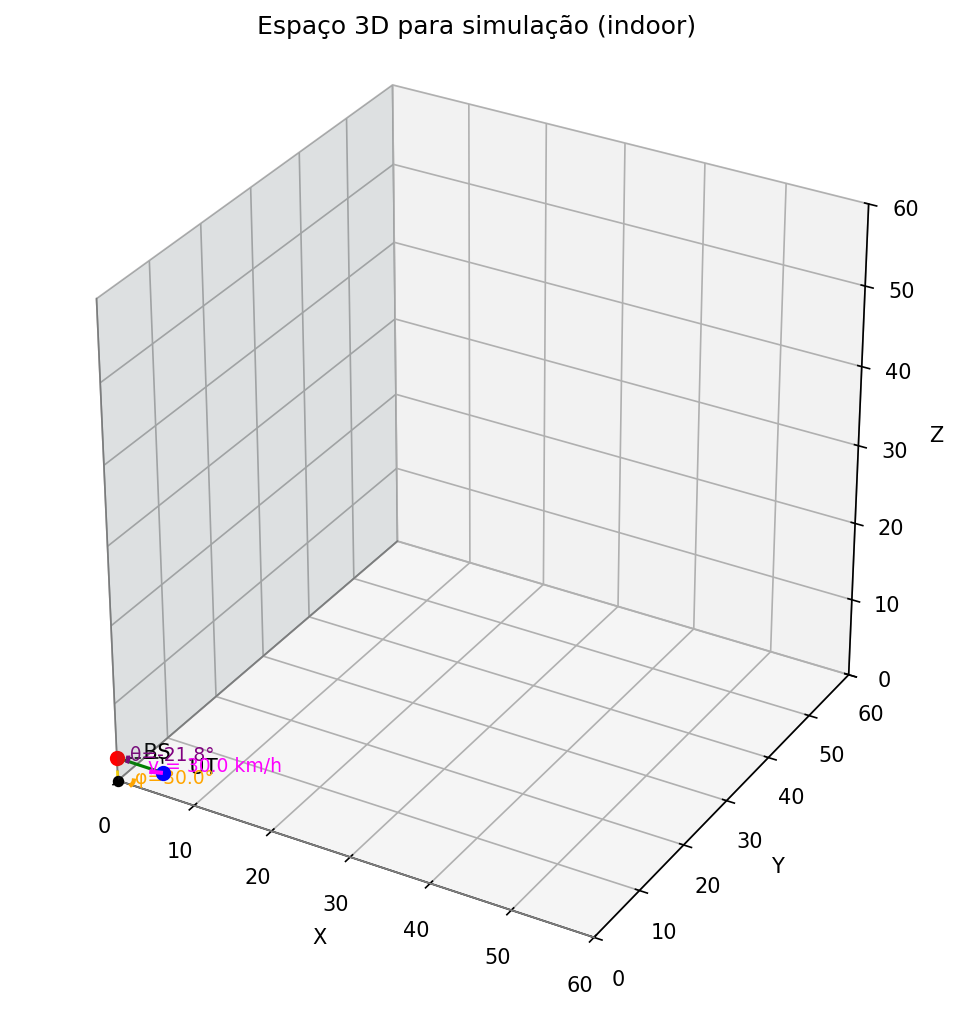
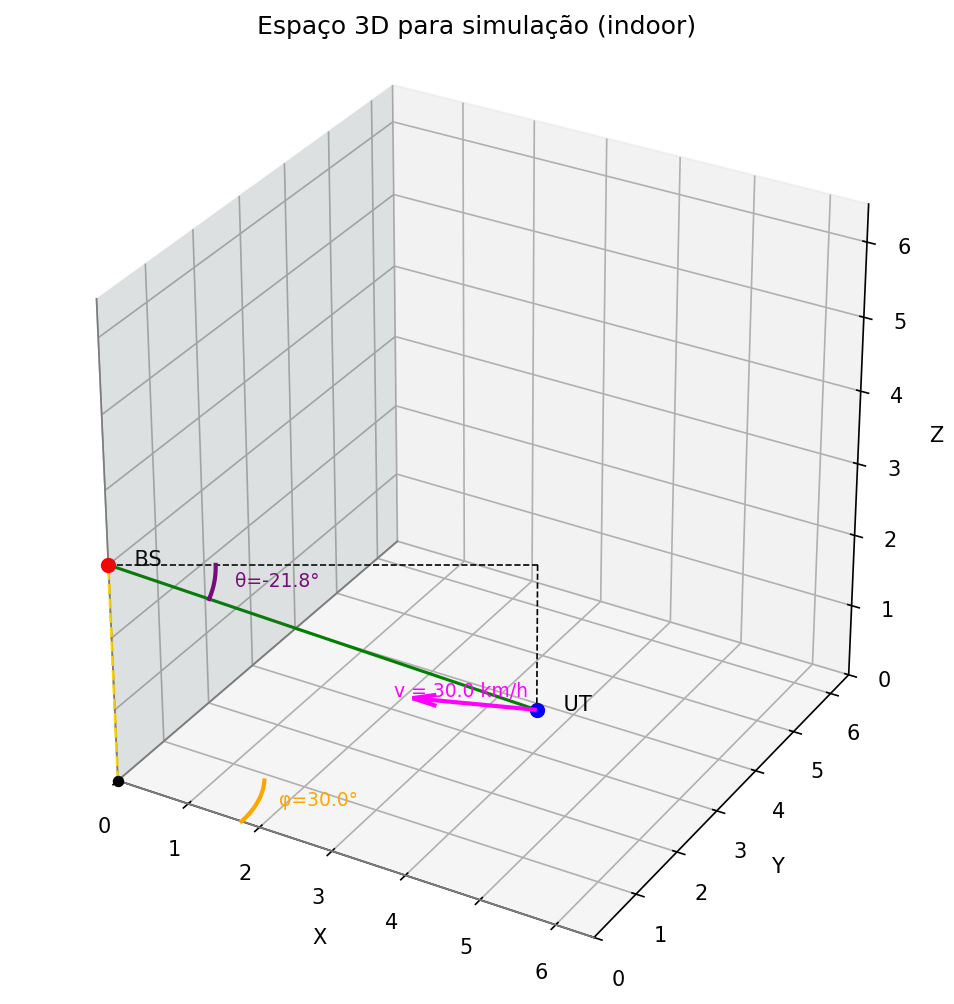
figura 1 arrumada pra caso indoor

diff --git a/Projeto1/run.py b/Projeto1/run.py
@@ -13,7 +13,7 @@ from main import CenarioSimulacao
 
 AMBIENTE = "indoor"
 PHI0_GRAUS = 30
-LIMITE_ESPACO = 60
+MARGEM_ESPACO = 1.3
 N_COMPONENTES = 100
 
 VELOCIDADE_KMH = 30
@@ -200,7 +200,10 @@ def figura_tempo_coerencia(cenario_base):
 
 
 
-cenario = CenarioSimulacao(AMBIENTE, phi0_graus=PHI0_GRAUS, limite_espaco=LIMITE_ESPACO)
+parametros_ambiente = CenarioSimulacao.PARAMETROS_DO_AMBIENTE[AMBIENTE]
+limite_espaco = max(parametros_ambiente["h_bs"], parametros_ambiente["d_2D"]) * MARGEM_ESPACO
+
+cenario = CenarioSimulacao(AMBIENTE, phi0_graus=PHI0_GRAUS, limite_espaco=limite_espaco)
 rodar_pipeline(cenario)
 
 
